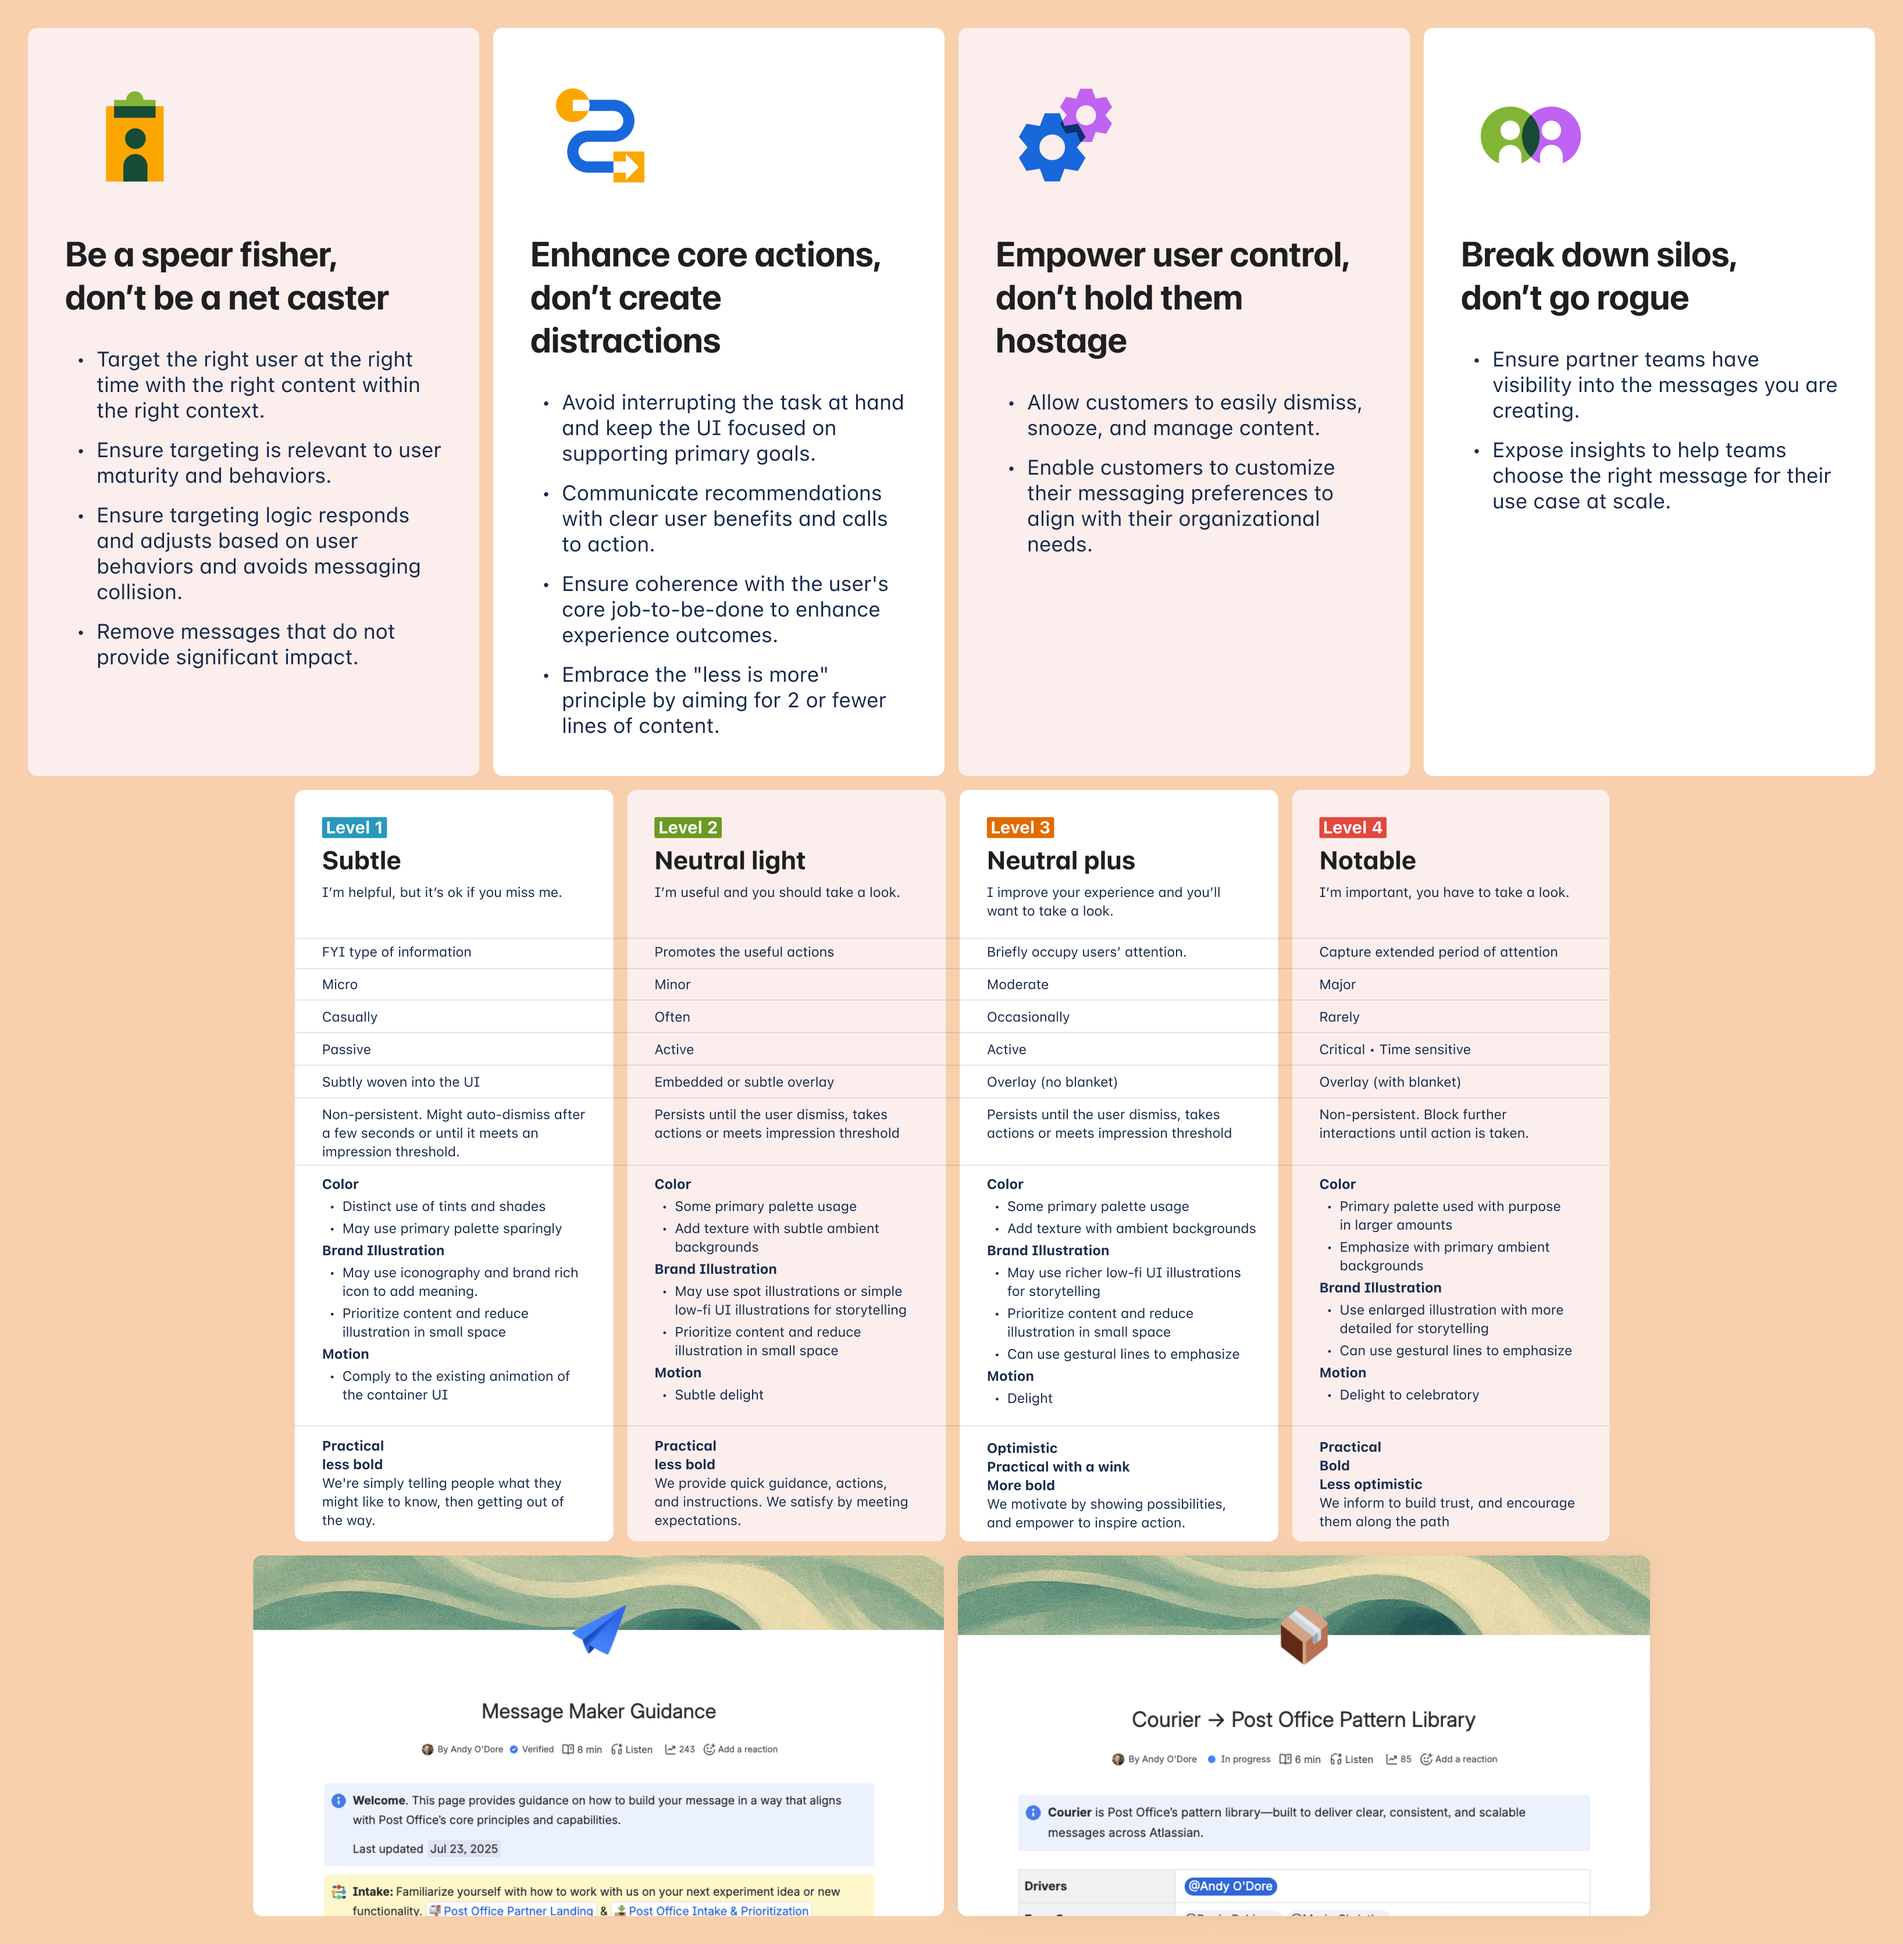
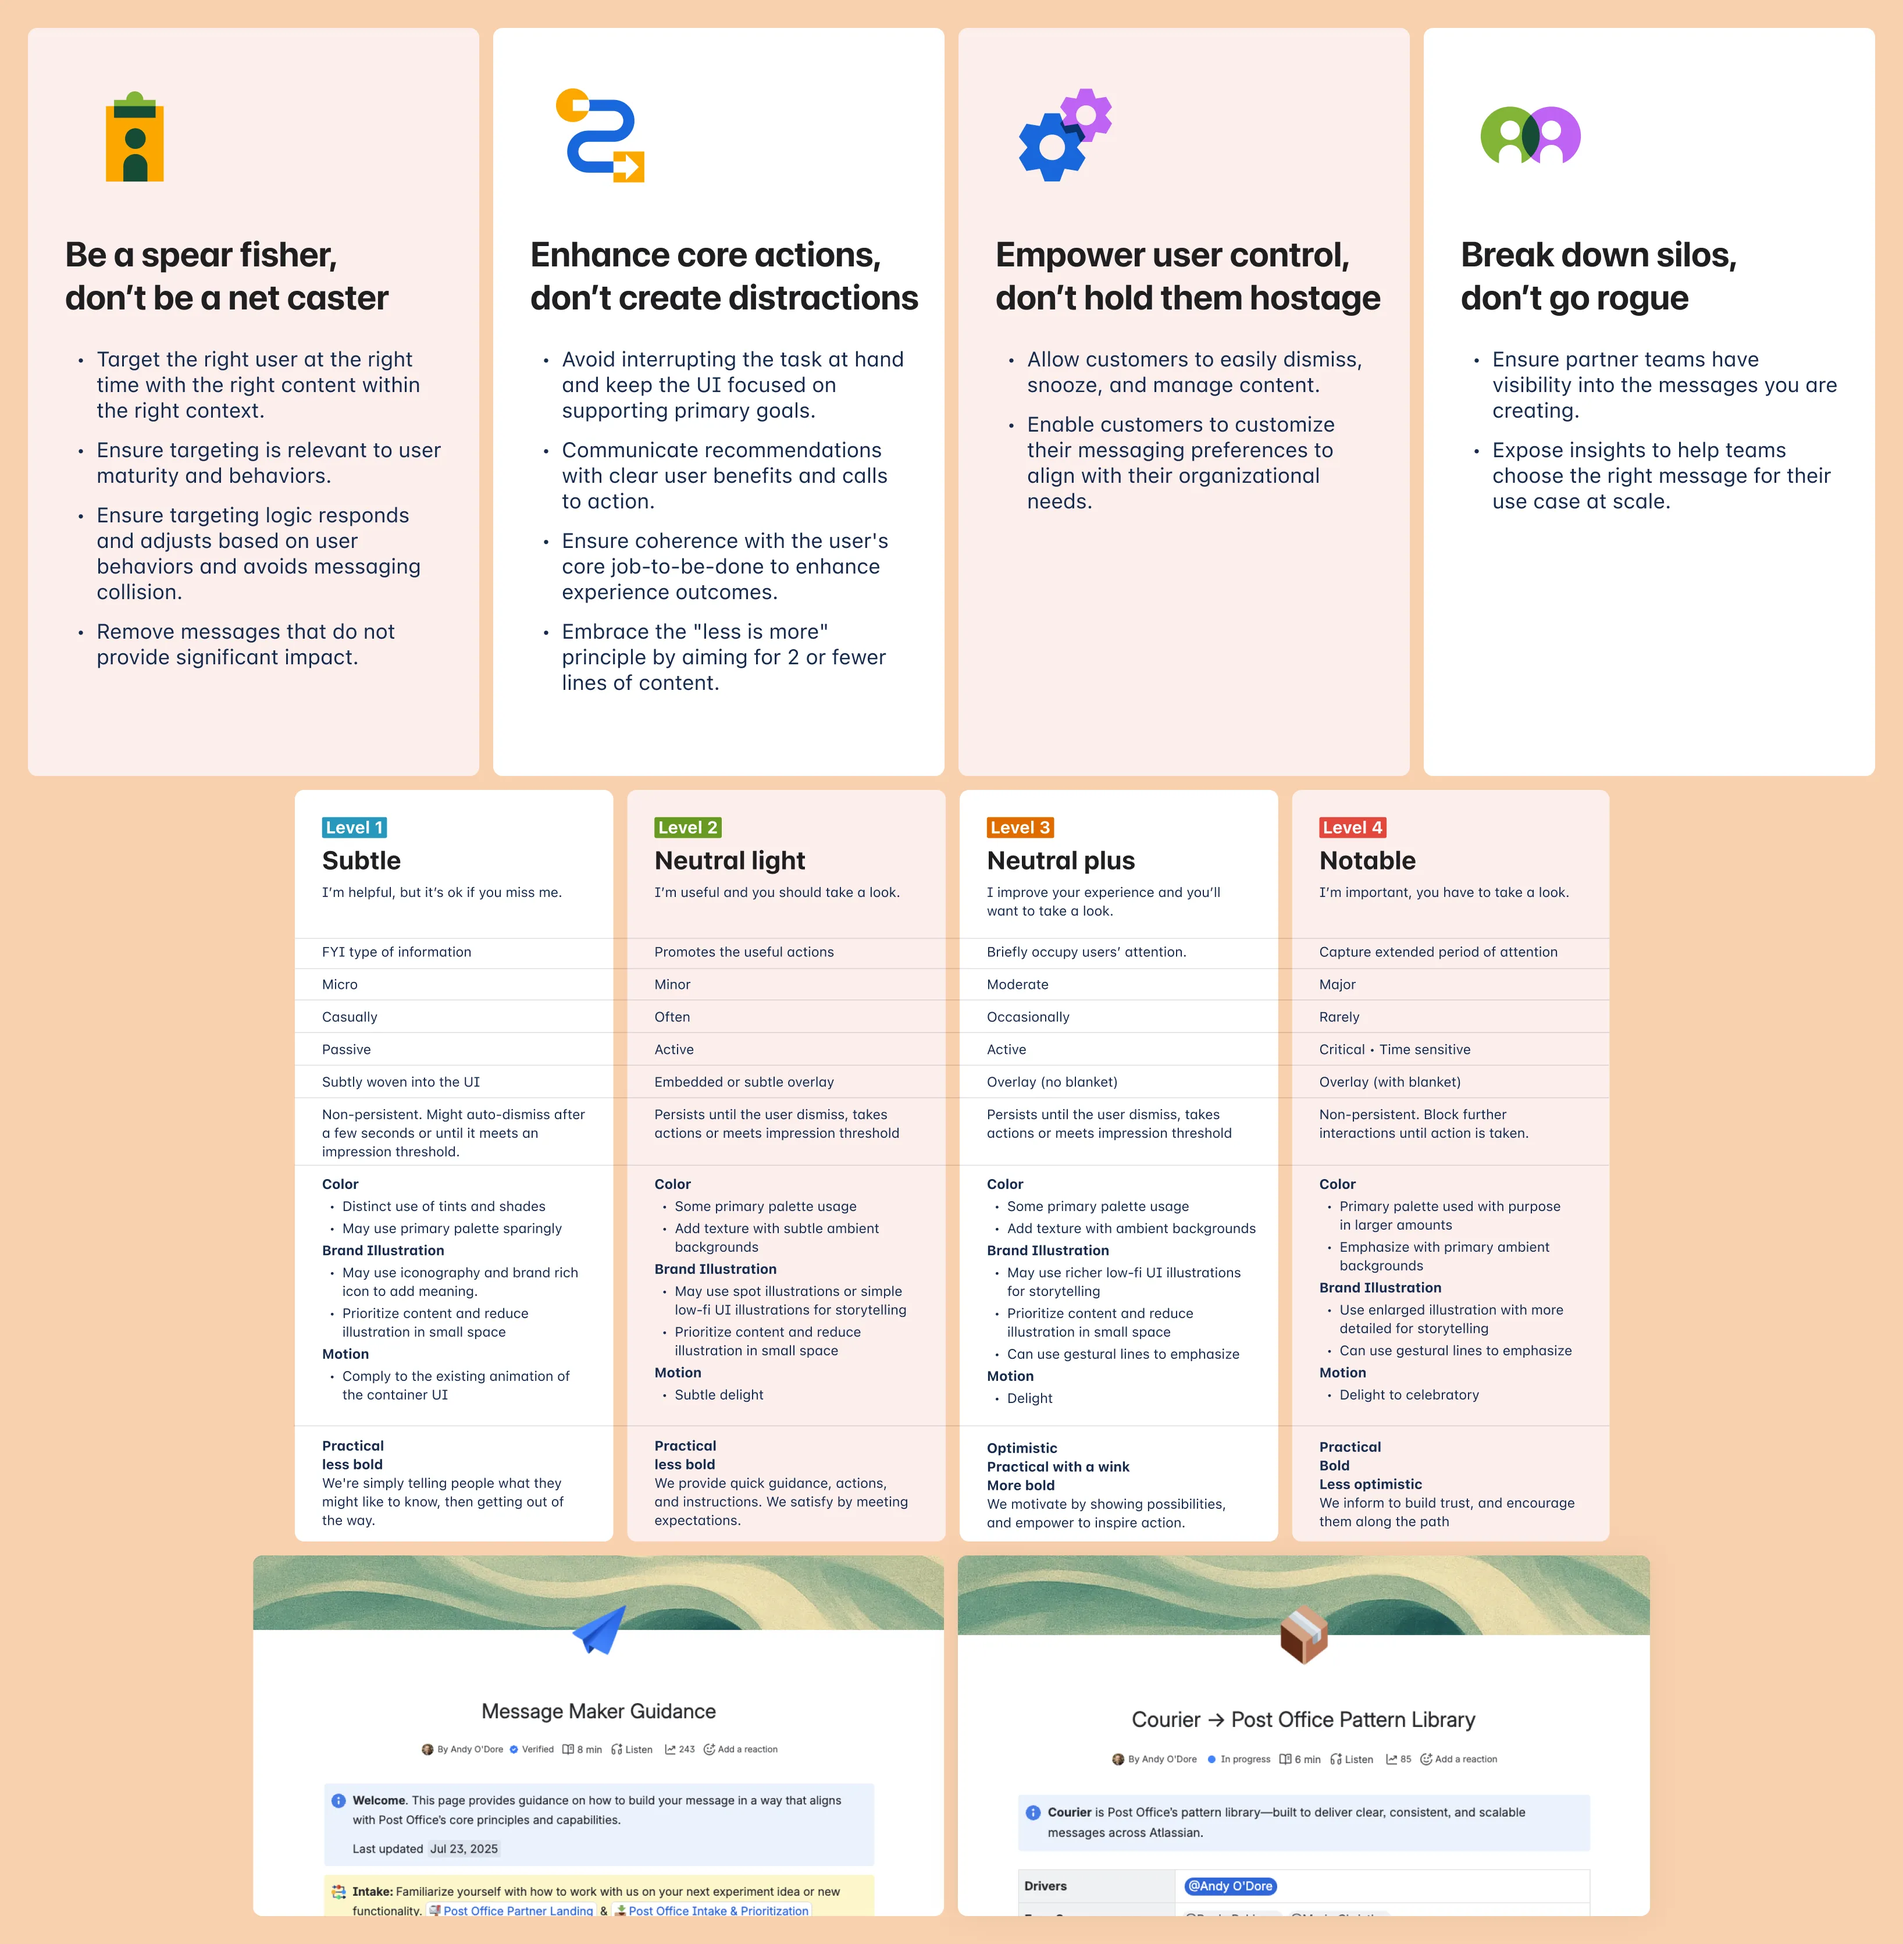
Link the Spotlight usage shot to ADS and refresh the Courier principles frame.

Changed region(s): [[0.2806, 0.1245, 0.4676, 0.3734], [0.53, 0.1245, 0.717, 0.2801]]

diff --git a/src/components/shot-lightbox.tsx b/src/components/shot-lightbox.tsx
@@ -11,9 +11,9 @@ import {
   useState,
   type ComponentProps,
 } from "react";
-import { CloseIcon } from "@/components/brand";
+import { ArrowUpRightIcon, CloseIcon } from "@/components/brand";
 import type { CaseStudyShot } from "@/lib/case-studies";
-import { dismissCues } from "@/lib/sound";
+import { dismissCues, linkCues } from "@/lib/sound";
 
 const OpenShot = createContext<{
   openAt: (index: number, origin?: OpenOrigin) => void;
@@ -369,18 +369,33 @@ export function ShotTrigger({
 
   return (
     <figure
-      className={`t-stagger-line overflow-hidden rounded-3xl${
-        open ? " invisible" : ""
-      }`}
+      className={`t-stagger-line${open ? " invisible" : ""}`}
     >
-      <button
-        type="button"
-        aria-label={`View image ${index + 1}: ${shot.alt}`}
-        className="block w-full cursor-zoom-in"
-        onClick={(event) => openFrom(event.currentTarget)}
-      >
-        <ShotImage shot={shot} className="h-auto w-full" />
-      </button>
+      <div className="overflow-hidden rounded-3xl">
+        <button
+          type="button"
+          aria-label={`View image ${index + 1}: ${shot.alt}`}
+          className="block w-full cursor-zoom-in"
+          onClick={(event) => openFrom(event.currentTarget)}
+        >
+          <ShotImage shot={shot} className="h-auto w-full" />
+        </button>
+      </div>
+      {shot.caption && (
+        <figcaption className="mt-3 text-right">
+          <a
+            href={shot.caption.href}
+            target="_blank"
+            rel="noopener noreferrer"
+            aria-label={`${shot.caption.label} (opens in a new tab)`}
+            className="inline-flex items-center gap-1 text-sm font-light transition-colors hover:text-ink"
+            {...linkCues}
+          >
+            {shot.caption.label}
+            <ArrowUpRightIcon className="size-3.5" />
+          </a>
+        </figcaption>
+      )}
     </figure>
   );
 }
@@ -571,6 +586,19 @@ function ShotFrame({
     >
       <div className="shot-chrome pointer-events-none absolute inset-0 z-10">
         <div className="pointer-events-auto absolute top-4 right-4 flex items-center gap-3 md:top-6 md:right-6">
+          {shot.caption && (
+            <a
+              href={shot.caption.href}
+              target="_blank"
+              rel="noopener noreferrer"
+              aria-label={`${shot.caption.label} (opens in a new tab)`}
+              className="mr-3 inline-flex items-center gap-1 text-[13px] leading-none font-light underline-offset-2 hover:underline"
+              {...linkCues}
+            >
+              {shot.caption.label}
+              <ArrowUpRightIcon className="size-3.5" />
+            </a>
+          )}
           <p
             aria-live="polite"
             className="text-[13px] leading-none tabular-nums"

diff --git a/src/lib/case-studies.ts b/src/lib/case-studies.ts
@@ -12,6 +12,11 @@ export type CaseStudyShot = {
   width?: number;
   height?: number;
   kind?: "image" | "video";
+  /** Small credit under the shot, opening in a new tab. */
+  caption?: {
+    label: string;
+    href: string;
+  };
 };
 
 export type CaseStudySection = {
@@ -171,6 +176,10 @@ const shots = {
     alt: "The Atlassian Design System Spotlight usage page, with guidance for a single-step spotlight on a Jira board.",
     width: 3272,
     height: 1696,
+    caption: {
+      label: "Check it out",
+      href: "https://atlassian.design/components/spotlight/usage",
+    },
   },
   campaignHero: {
     src: "/images/campaign-manager-hero.webp",
